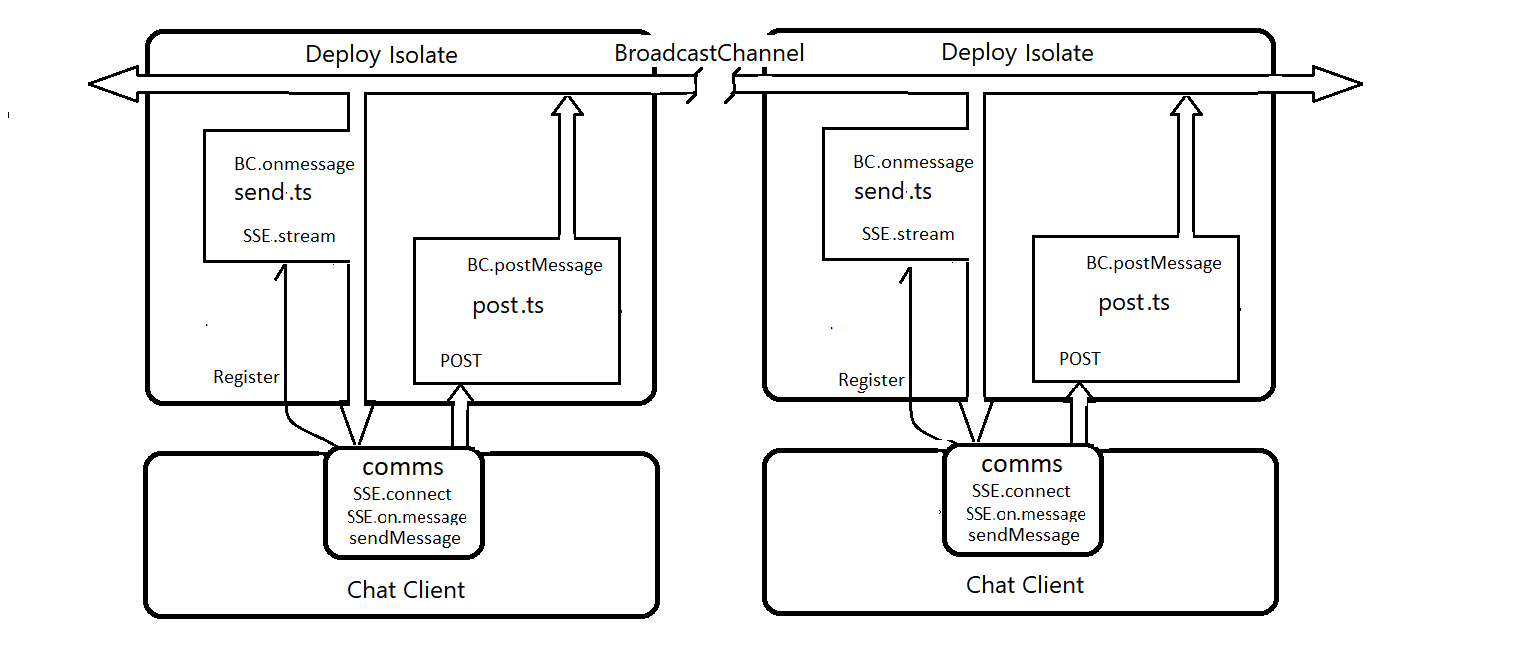
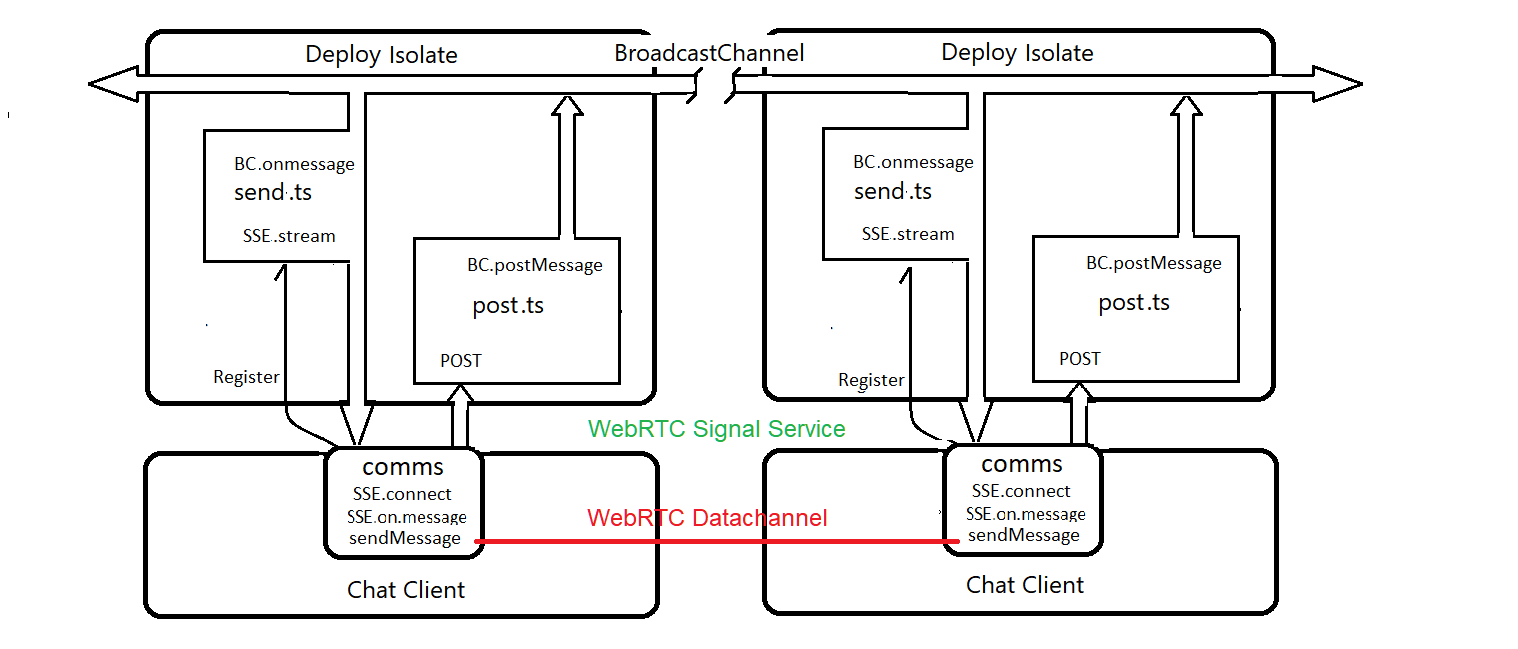
adjusted omages

Changed region(s): [[0.3096, 0.7704, 0.6192, 0.8629], [0.3715, 0.6471, 0.5573, 0.678]]

diff --git a/Readme.md b/Readme.md
@@ -1,27 +1,45 @@
-# Deno SSE-BC Chat
-A super simple Chat-App that leverages Deno BroadcastChannel to bridge Deploy Isolates.   
-This example uses Server Sent Events - SSE - rather than WebSockets for chat communications.   
+# Deno WebRTC Chat
+## A super secure Chat-App 
+This app leverages a Deno signalling service to signal/connect two RTC-Peers.    
+
+This example uses Server Sent Events - SSE - rather than WebSockets for the signal service.   
+Once connected, The two client peers have a direct secure channel to talk about anything    
+that they would like to be kept private. 
+
+There is no persistence involved! When a client closes, all traces are garbage collected by 
+the sandboxed browser instance.     
+
+Once connected by the signal service, there no further network activity    
+other than the very private and secure P2P RTC-Datachannel.
 
 
-![SSE0BC](./SSE-BC.png) 
-    
-To exercise the app, you'll need to open two copies. http://localhost:8080 
-
-Bridging different isolates and/or regions.   
-
-![comms](comms.png)  
-
-
-## To run a local copy, enter:
-```
-$ deno run --allow-net=0.0.0.0:8080 --allow-read=. --unstable server.ts
-```
-
-## Try it now! https://sse-chat.deno.dev/    -> Open two copies!
-
-
+## Try it now! https://rtc-chat.deno.dev/    -> Open two copies!
 I like to open each side-by-side, in two separate browser windows.  
 
 <br/>
 
 ![chats](./chats.png)  
+
+## Signalling service 
+The Sinalling service is used to bridge two different isolates and/or regions.    
+An example would be Peer-1 in California wants to connect with Peer-2 in Japan.    
+
+Once signalling has completed, they will share a direct data-pipe with each other.    
+
+<br/>
+
+
+![comms](comms.png)  
+
+<br/>
+
+
+## Note on security: 
+Any data transmitted on an RTCDataChannel is automatically secured using     
+Datagram Transport Layer Security (DTLS).    
+More fundamentally, since WebRTC is a peer-to-peer connection between two user agents,    
+the data never passes through the web or application server.    
+This reduces opportunities to have the data intercepted.
+
+
+<br/>
